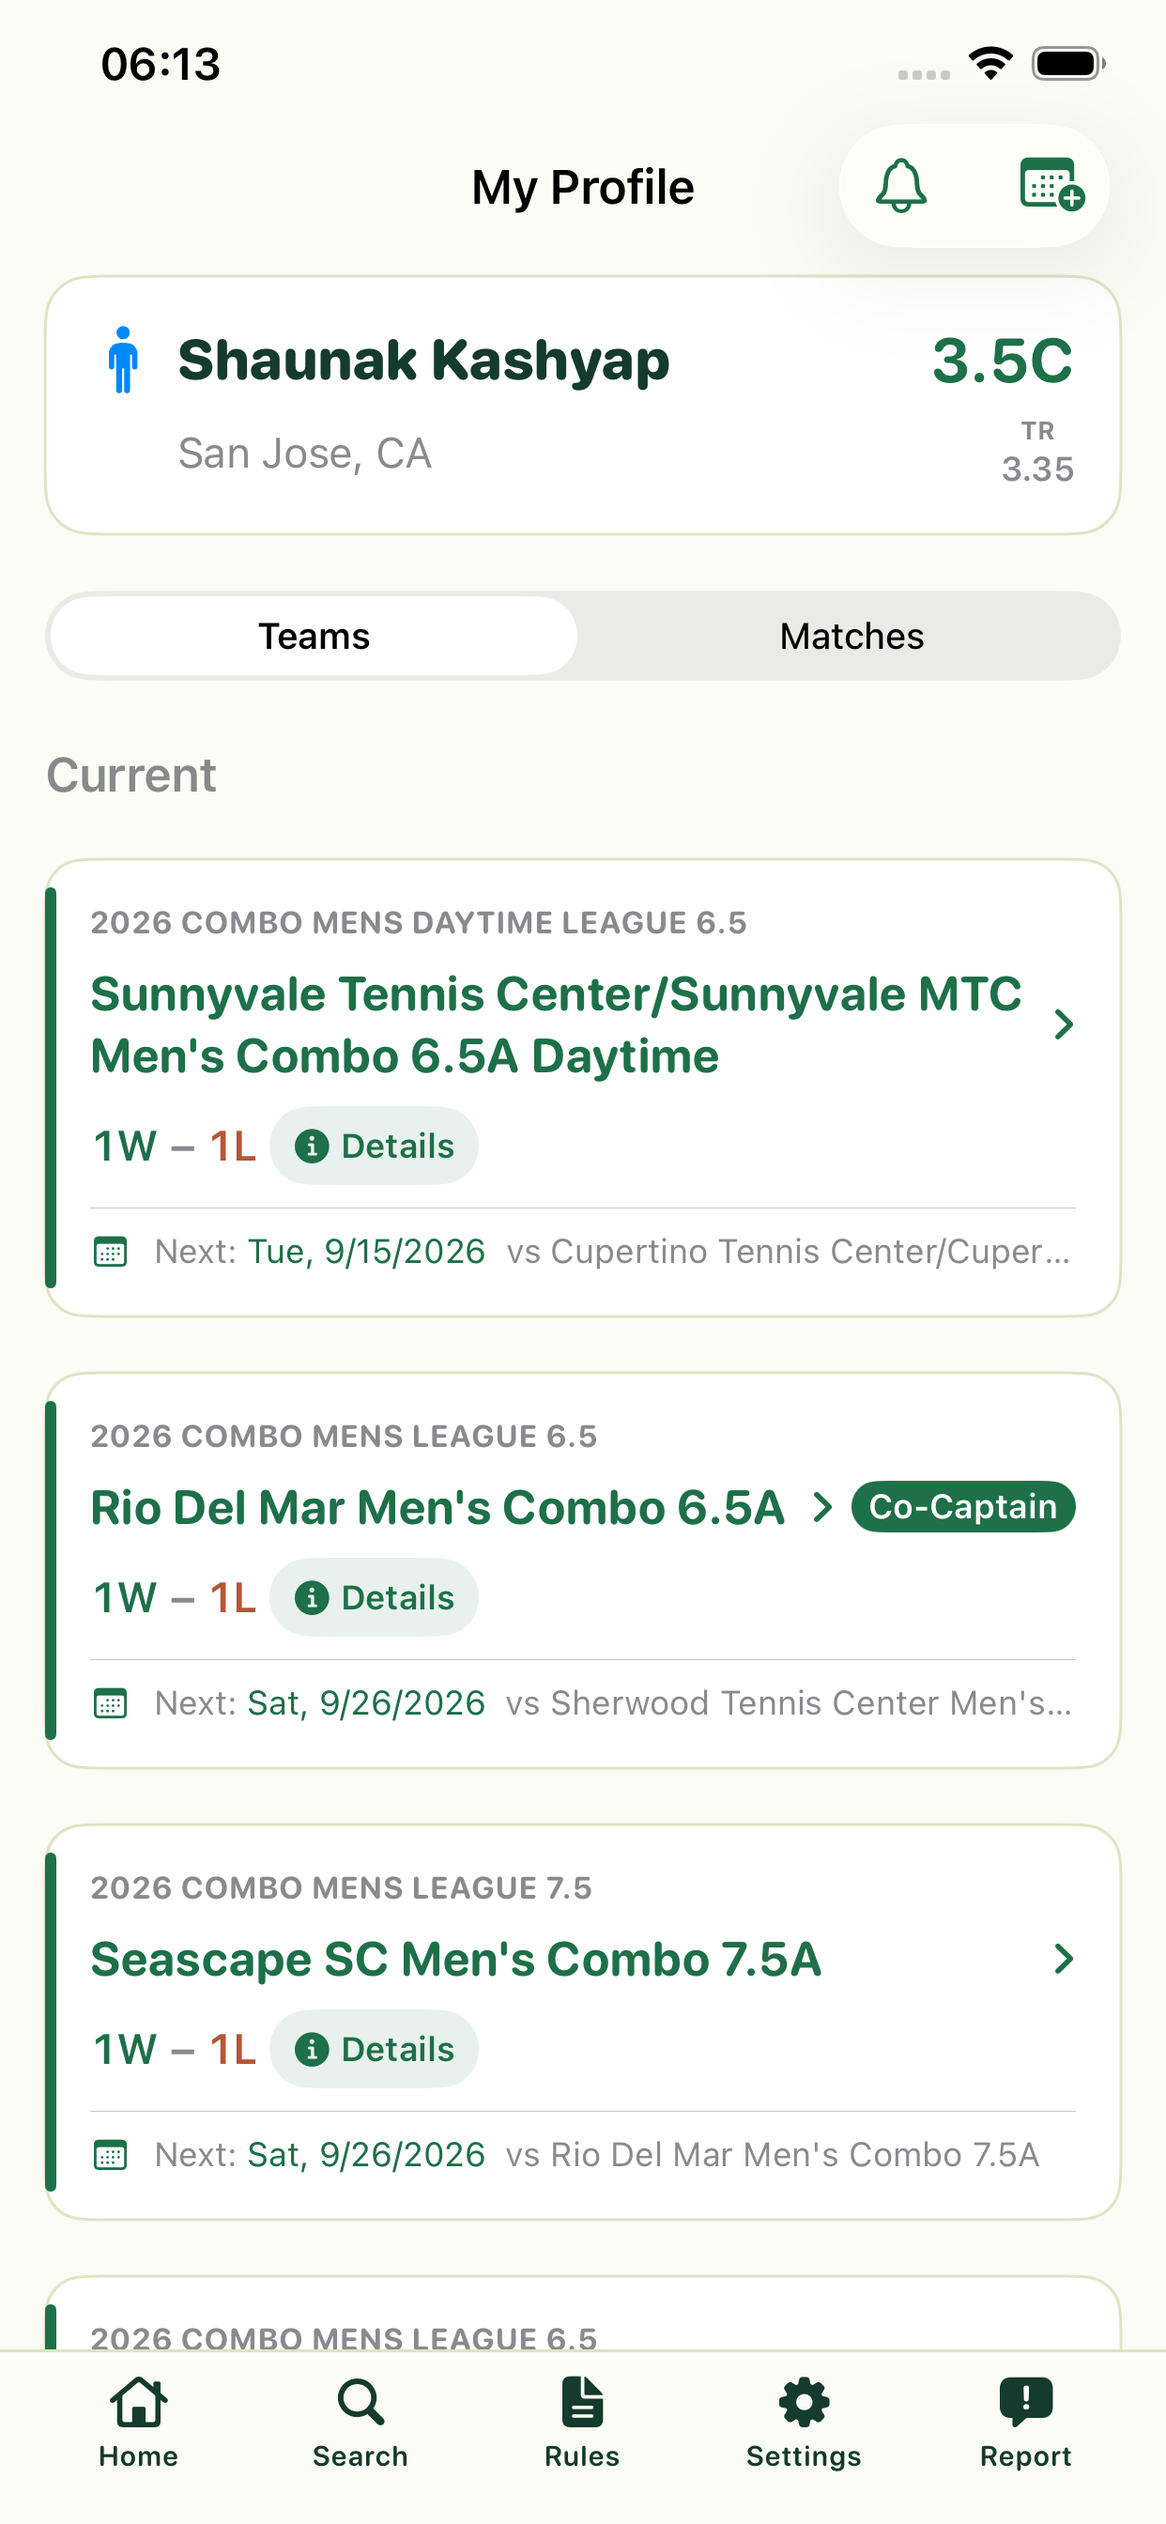
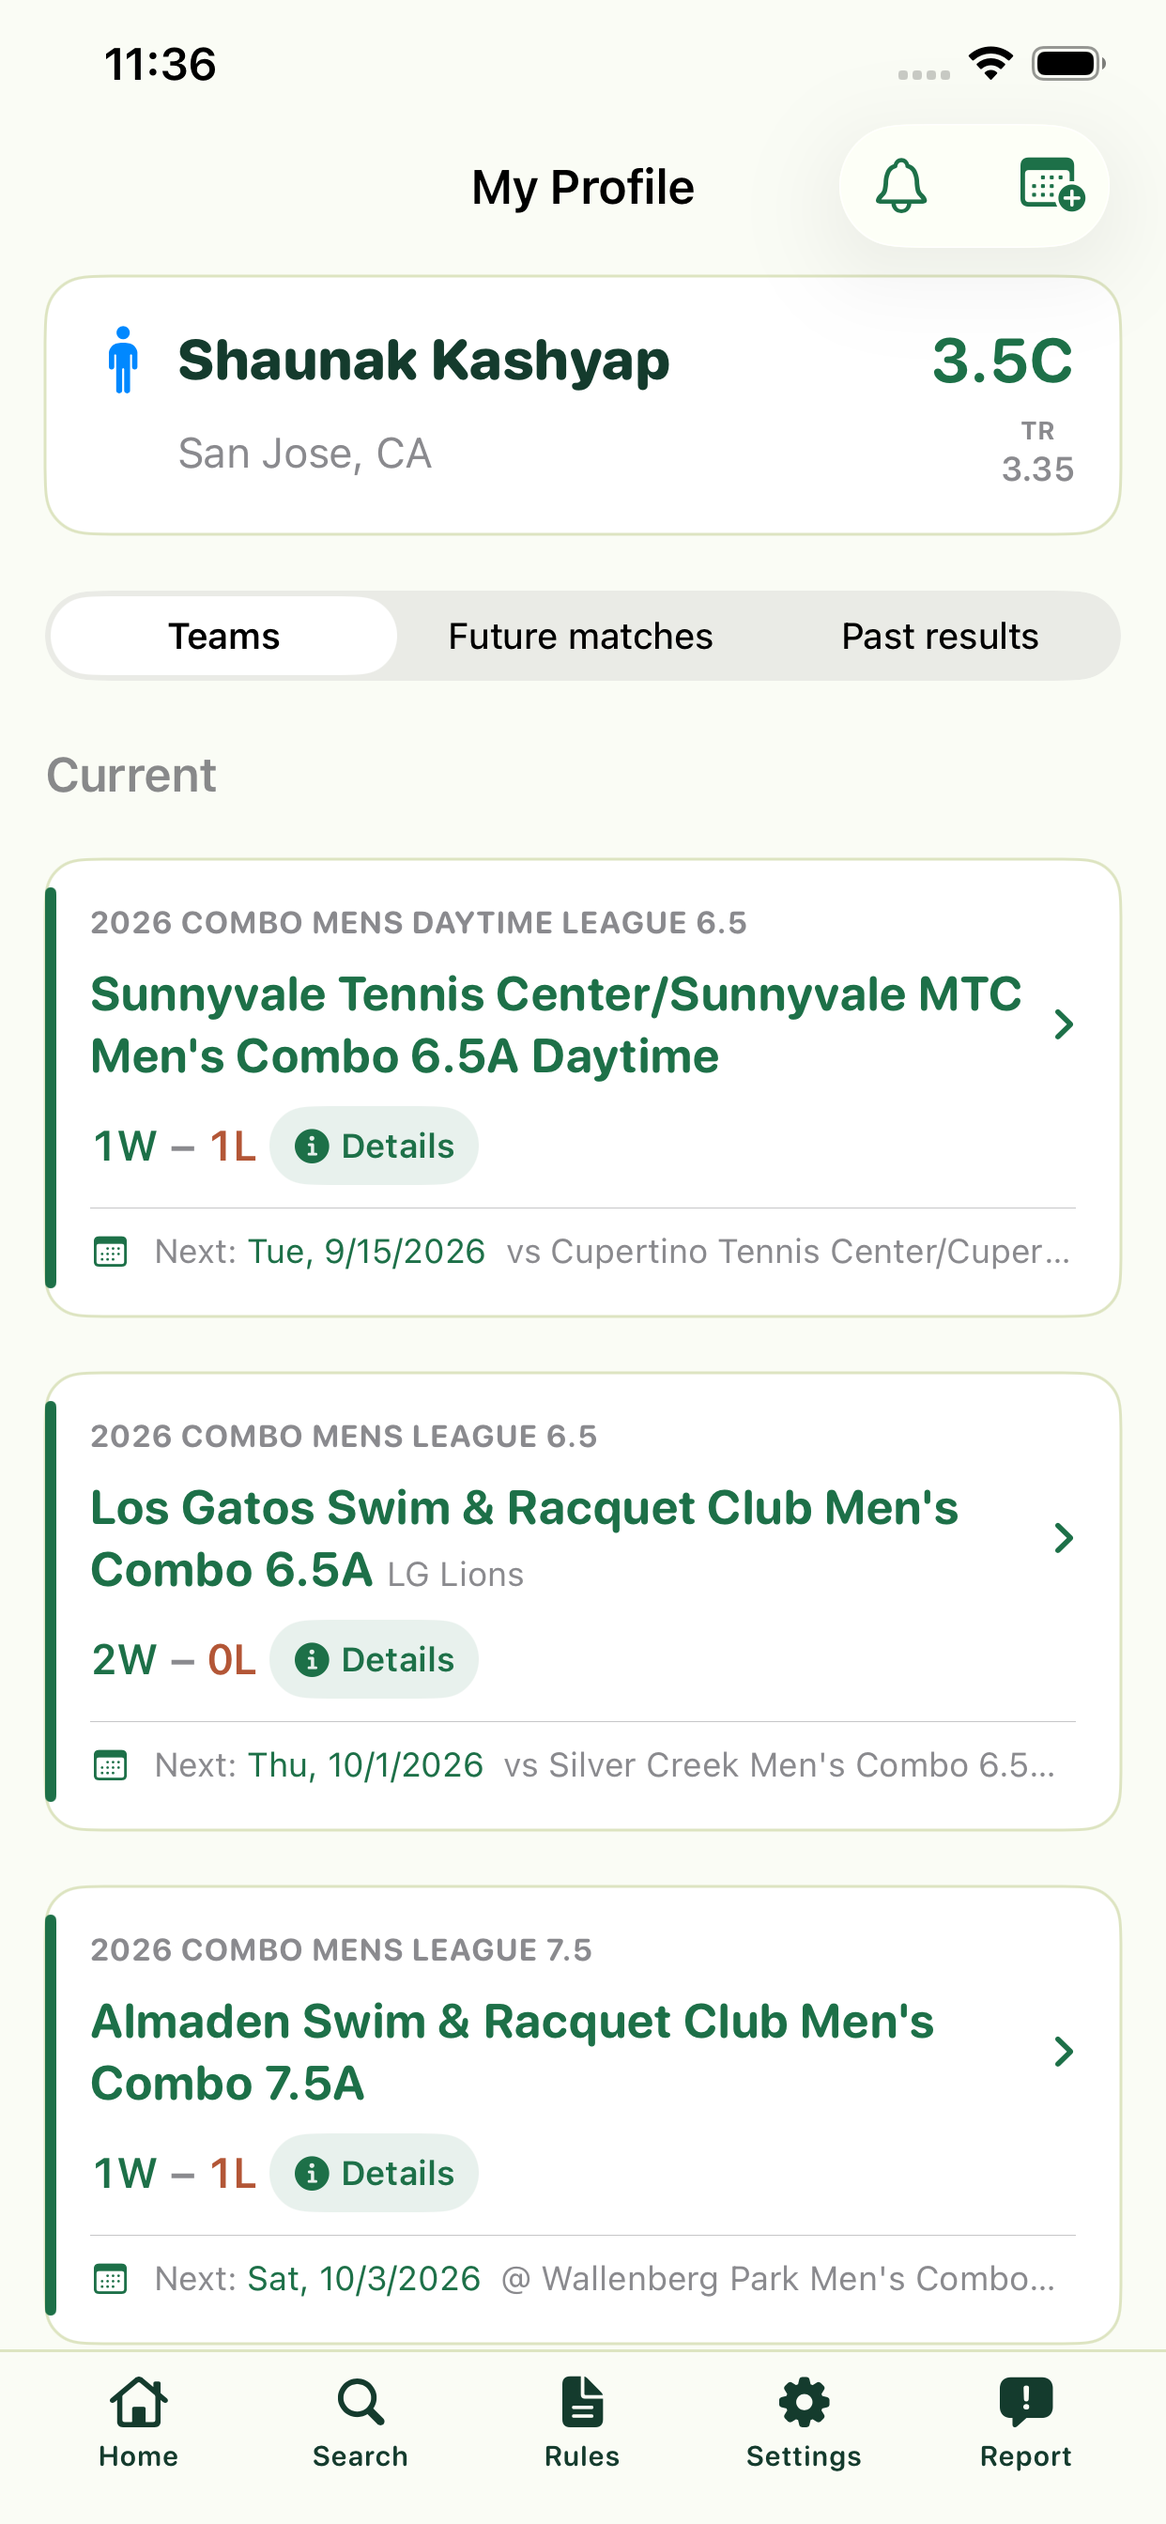
Refresh Net Results tour for new player match tabs

diff --git a/net-results/index.html b/net-results/index.html
@@ -500,7 +500,7 @@
             <ul>
               <li>Your NTRP, TennisRecord, and UTR ratings</li>
               <li>Current, upcoming, and past teams</li>
-              <li>Upcoming and past matches</li>
+              <li>Separate Future matches and Past results tabs</li>
             </ul>
           </article>
 
@@ -513,7 +513,16 @@
             </ul>
           </article>
 
-          <article id="profile" class="carousel-copy" data-slide="4" aria-hidden="true">
+          <article id="future-matches" class="carousel-copy" data-slide="4" aria-hidden="true">
+            <h2>See what’s next on court</h2>
+            <ul>
+              <li>Upcoming matches across your teams in date order</li>
+              <li>Filter by team level and venue</li>
+              <li>Open lineup and availability controls from your profile</li>
+            </ul>
+          </article>
+
+          <article id="profile" class="carousel-copy" data-slide="5" aria-hidden="true">
             <h2>All your teams, one view</h2>
             <ul>
               <li>Your win–loss records at a glance</li>
@@ -522,7 +531,7 @@
             </ul>
           </article>
 
-          <article id="team" class="carousel-copy" data-slide="5" aria-hidden="true">
+          <article id="team" class="carousel-copy" data-slide="6" aria-hidden="true">
             <h2>Everything about every team</h2>
             <ul>
               <li>Record and full schedule</li>
@@ -531,7 +540,7 @@
             </ul>
           </article>
 
-          <article id="team-comparison" class="carousel-copy" data-slide="6" aria-hidden="true">
+          <article id="team-comparison" class="carousel-copy" data-slide="7" aria-hidden="true">
             <h2>Compare team strengths</h2>
             <ul>
               <li>Compare teams using TennisRecord, UTR singles, or UTR doubles</li>
@@ -540,7 +549,7 @@
             </ul>
           </article>
 
-          <article id="roster" class="carousel-copy" data-slide="7" aria-hidden="true">
+          <article id="roster" class="carousel-copy" data-slide="8" aria-hidden="true">
             <h2>Scout the full roster</h2>
             <ul>
               <li>Sort by name, gender, results, and ratings</li>
@@ -549,7 +558,7 @@
             </ul>
           </article>
 
-          <article id="player-detail" class="carousel-copy" data-slide="8" aria-hidden="true">
+          <article id="player-detail" class="carousel-copy" data-slide="9" aria-hidden="true">
             <h2>See beyond the rating</h2>
             <ul>
               <li>Individual win–loss record</li>
@@ -558,7 +567,7 @@
             </ul>
           </article>
 
-          <article id="results" class="carousel-copy" data-slide="9" aria-hidden="true">
+          <article id="results" class="carousel-copy" data-slide="10" aria-hidden="true">
             <h2>Know a team’s history</h2>
             <ul>
               <li>Players, opponents, and scores</li>
@@ -570,7 +579,7 @@
             </ul>
           </article>
 
-          <article id="availability" class="carousel-copy" data-slide="10" aria-hidden="true">
+          <article id="availability" class="carousel-copy" data-slide="11" aria-hidden="true">
             <h2>Know what’s next</h2>
             <ul>
               <li>Time, location, and captain notes</li>
@@ -579,7 +588,7 @@
             </ul>
           </article>
 
-          <article id="venue-ratings" class="carousel-copy" data-slide="11" aria-hidden="true">
+          <article id="venue-ratings" class="carousel-copy" data-slide="12" aria-hidden="true">
             <h2>Scout your match venues</h2>
             <ul>
               <li>Scores for water, restrooms, lights, courts, and food</li>
@@ -588,7 +597,7 @@
             </ul>
           </article>
 
-          <article id="venue-profile" class="carousel-copy" data-slide="12" aria-hidden="true">
+          <article id="venue-profile" class="carousel-copy" data-slide="13" aria-hidden="true">
             <h2>Explore a venue’s teams and matches</h2>
             <ul>
               <li>Browse teams and match schedules by venue</li>
@@ -597,7 +606,7 @@
             </ul>
           </article>
 
-          <article id="planner" class="carousel-copy" data-slide="13" aria-hidden="true">
+          <article id="planner" class="carousel-copy" data-slide="14" aria-hidden="true">
             <h2>Plan a match lineup</h2>
             <ul>
               <li>Team availability as a starting point</li>
@@ -606,7 +615,7 @@
             </ul>
           </article>
 
-          <article id="captain-lineup" class="carousel-copy" data-slide="14" aria-hidden="true">
+          <article id="captain-lineup" class="carousel-copy" data-slide="15" aria-hidden="true">
             <div class="carousel-title-row">
               <h2>Set the match lineup</h2>
               <span class="feature-access-badge">For captains &amp; co-captains</span>
@@ -618,7 +627,7 @@
             </ul>
           </article>
 
-          <article id="sharing" class="carousel-copy" data-slide="15" aria-hidden="true">
+          <article id="sharing" class="carousel-copy" data-slide="16" aria-hidden="true">
             <h2>Share the lineup in a tap</h2>
             <ul>
               <li>Just bring your phone on match day</li>
@@ -627,7 +636,7 @@
             </ul>
           </article>
 
-          <article id="search" class="carousel-copy" data-slide="16" aria-hidden="true">
+          <article id="search" class="carousel-copy" data-slide="17" aria-hidden="true">
             <h2>Find a player or team in seconds</h2>
             <ul>
               <li>Players and teams together</li>
@@ -636,16 +645,16 @@
             </ul>
           </article>
 
-          <article id="account-controls" class="carousel-copy" data-slide="17" aria-hidden="true">
+          <article id="account-controls" class="carousel-copy" data-slide="18" aria-hidden="true">
             <h2>Make your app your own</h2>
             <ul>
-              <li>Separate USTA and UTR sign-out</li>
-              <li>Face ID controls for each account</li>
               <li>Choose the ratings you want to see</li>
+              <li>Control match and practice reminders</li>
+              <li>Manage team availability updates for captains</li>
             </ul>
           </article>
 
-          <article id="issue-reporting" class="carousel-copy" data-slide="18" aria-hidden="true">
+          <article id="issue-reporting" class="carousel-copy" data-slide="19" aria-hidden="true">
             <h2>Report issues with context</h2>
             <ul>
               <li>Send problems, ideas, questions—or even praise</li>
@@ -654,7 +663,7 @@
             </ul>
           </article>
 
-          <article id="regulations-search" class="carousel-copy" data-slide="19" aria-hidden="true">
+          <article id="regulations-search" class="carousel-copy" data-slide="20" aria-hidden="true">
             <h2>Find the rule when it matters</h2>
             <ul>
               <li>Search the bundled USTA league regulations</li>
@@ -672,7 +681,7 @@
             <span class="carousel-counter-current">01</span>
             <span aria-hidden="true"> / </span>
             <span class="sr-only"> of </span>
-            <span>20</span>
+            <span>21</span>
           </div>
           <button class="carousel-control" type="button" data-action="next" aria-label="Next feature">
             <span aria-hidden="true">→</span>
@@ -681,7 +690,7 @@
             </svg>
           </button>
         </div>
-        <div class="carousel-progress" role="progressbar" aria-label="Feature 1 of 20" aria-valuemin="1" aria-valuemax="20" aria-valuenow="1">
+        <div class="carousel-progress" role="progressbar" aria-label="Feature 1 of 21" aria-valuemin="1" aria-valuemax="21" aria-valuenow="1">
           <div class="carousel-progress-fill"></div>
         </div>
       </div>
@@ -699,54 +708,57 @@
             <img src="screenshots/16-home.png" alt="Net Results home screen with player ratings, record, and teams" width="1242" height="2688" loading="lazy">
           </button>
           <button class="carousel-shot" type="button" data-index="3" tabindex="-1" aria-label="Show feature: Find the matches that matter">
-            <img src="screenshots/07-player-match-filters.png" alt="Player match history filtered by venue, with partner, opponent, and team-level filters visible" width="1242" height="2688" loading="lazy">
+            <img src="screenshots/07-player-match-filters.png" alt="Past results filtered by venue, with all four filters, highlighted totals, and a complete match result" width="1242" height="2688" loading="lazy">
           </button>
-          <button class="carousel-shot" type="button" data-index="4" tabindex="-1" aria-label="Show feature: All your teams, one view">
+          <button class="carousel-shot" type="button" data-index="4" tabindex="-1" aria-label="Show feature: See what’s next on court">
+            <img src="screenshots/21-future-matches.png" alt="Future matches tab with team level and venue filters, lineup planning, and personal and team availability controls" width="1242" height="2688" loading="lazy">
+          </button>
+          <button class="carousel-shot" type="button" data-index="5" tabindex="-1" aria-label="Show feature: All your teams, one view">
             <img src="screenshots/01-home-team-expanded.png" alt="Profile with teams expanded" width="1242" height="2688" loading="lazy">
           </button>
-          <button class="carousel-shot" type="button" data-index="5" tabindex="-1" aria-label="Show feature: Everything about every team">
+          <button class="carousel-shot" type="button" data-index="6" tabindex="-1" aria-label="Show feature: Everything about every team">
             <img src="screenshots/13-team.png" alt="Team view" width="1242" height="2688" loading="lazy">
           </button>
-          <button class="carousel-shot" type="button" data-index="6" tabindex="-1" aria-label="Show feature: Compare team strengths">
+          <button class="carousel-shot" type="button" data-index="7" tabindex="-1" aria-label="Show feature: Compare team strengths">
             <img src="screenshots/03-team-comparison.png" alt="Team strength comparison" width="1242" height="2688" loading="lazy">
           </button>
-          <button class="carousel-shot" type="button" data-index="7" tabindex="-1" aria-label="Show feature: Scout the full roster">
+          <button class="carousel-shot" type="button" data-index="8" tabindex="-1" aria-label="Show feature: Scout the full roster">
             <img src="screenshots/05-team-roster.png" alt="Team roster" width="1242" height="2688" loading="lazy">
           </button>
-          <button class="carousel-shot" type="button" data-index="8" tabindex="-1" aria-label="Show feature: See beyond the rating">
+          <button class="carousel-shot" type="button" data-index="9" tabindex="-1" aria-label="Show feature: See beyond the rating">
             <img src="screenshots/15-team-roster-player-expanded.png" alt="Roster player expanded" width="1242" height="2688" loading="lazy">
           </button>
-          <button class="carousel-shot" type="button" data-index="9" tabindex="-1" aria-label="Show feature: Know a team’s history">
+          <button class="carousel-shot" type="button" data-index="10" tabindex="-1" aria-label="Show feature: Know a team’s history">
             <img src="screenshots/08-team-result-expanded.png" alt="Match result expanded" width="1242" height="2688" loading="lazy">
           </button>
-          <button class="carousel-shot" type="button" data-index="10" tabindex="-1" aria-label="Show feature: Know what’s next">
+          <button class="carousel-shot" type="button" data-index="11" tabindex="-1" aria-label="Show feature: Know what’s next">
             <img src="screenshots/11-team-upcoming-expanded.png" alt="Upcoming match expanded" width="1242" height="2688" loading="lazy">
           </button>
-          <button class="carousel-shot" type="button" data-index="11" tabindex="-1" aria-label="Show feature: Scout your match venues">
+          <button class="carousel-shot" type="button" data-index="12" tabindex="-1" aria-label="Show feature: Scout your match venues">
             <img src="screenshots/06-venue-ratings.png" alt="Venue rating form with tennis-ball category scores" width="1242" height="2688" loading="lazy">
           </button>
-          <button class="carousel-shot" type="button" data-index="12" tabindex="-1" aria-label="Show feature: Explore a venue’s teams and matches">
+          <button class="carousel-shot" type="button" data-index="13" tabindex="-1" aria-label="Show feature: Explore a venue’s teams and matches">
             <img src="screenshots/20-venue-profile.png" alt="Venue profile with team, opponent, and level filters, upcoming matches, maps, and current weather" width="1242" height="2688" loading="lazy">
           </button>
-          <button class="carousel-shot" type="button" data-index="13" tabindex="-1" aria-label="Show feature: Plan a match lineup">
+          <button class="carousel-shot" type="button" data-index="14" tabindex="-1" aria-label="Show feature: Plan a match lineup">
             <img src="screenshots/02-lineup-planner.png" alt="Lineup planner with a proposed lineup" width="1242" height="2688" loading="lazy">
           </button>
-          <button class="carousel-shot" type="button" data-index="14" tabindex="-1" aria-label="Show feature: Set the match lineup">
+          <button class="carousel-shot" type="button" data-index="15" tabindex="-1" aria-label="Show feature: Set the match lineup">
             <img src="screenshots/18-lineup-planner-captain.png" alt="Captain lineup planner with editable pairings, automatic saving, notes, and visibility controls" width="1242" height="2688" loading="lazy">
           </button>
-          <button class="carousel-shot" type="button" data-index="15" tabindex="-1" aria-label="Show feature: Share the lineup in a tap">
+          <button class="carousel-shot" type="button" data-index="16" tabindex="-1" aria-label="Show feature: Share the lineup in a tap">
             <img src="screenshots/04-lineup-sharing.png" alt="Published lineup with sharing options" width="1242" height="2688" loading="lazy">
           </button>
-          <button class="carousel-shot" type="button" data-index="16" tabindex="-1" aria-label="Show feature: Find a player or team in seconds">
+          <button class="carousel-shot" type="button" data-index="17" tabindex="-1" aria-label="Show feature: Find a player or team in seconds">
             <img src="screenshots/12-search-results.png" alt="Player and team search results" width="1242" height="2688" loading="lazy">
           </button>
-          <button class="carousel-shot" type="button" data-index="17" tabindex="-1" aria-label="Show feature: Make your app your own">
-            <img src="screenshots/14-settings.png" alt="Settings with Face ID account controls" width="1242" height="2688" loading="lazy">
+          <button class="carousel-shot" type="button" data-index="18" tabindex="-1" aria-label="Show feature: Make your app your own">
+            <img src="screenshots/14-settings.png" alt="Settings with rating preferences and notification switches, including reminder timing and team availability changes" width="1242" height="2688" loading="lazy">
           </button>
-          <button class="carousel-shot" type="button" data-index="18" tabindex="-1" aria-label="Show feature: Report issues with context">
+          <button class="carousel-shot" type="button" data-index="19" tabindex="-1" aria-label="Show feature: Report issues with context">
             <img src="screenshots/17-report-issue.png" alt="In-app issue report with description and diagnostic context" width="1242" height="2688" loading="lazy">
           </button>
-          <button class="carousel-shot" type="button" data-index="19" tabindex="-1" aria-label="Show feature: Find the rule when it matters">
+          <button class="carousel-shot" type="button" data-index="20" tabindex="-1" aria-label="Show feature: Find the rule when it matters">
             <img src="screenshots/19-regulations-search.png" alt="USTA league regulations with highlighted search results and result navigation" width="1242" height="2688" loading="lazy">
           </button>
           <!-- END GENERATED TOUR SCREENSHOTS -->
